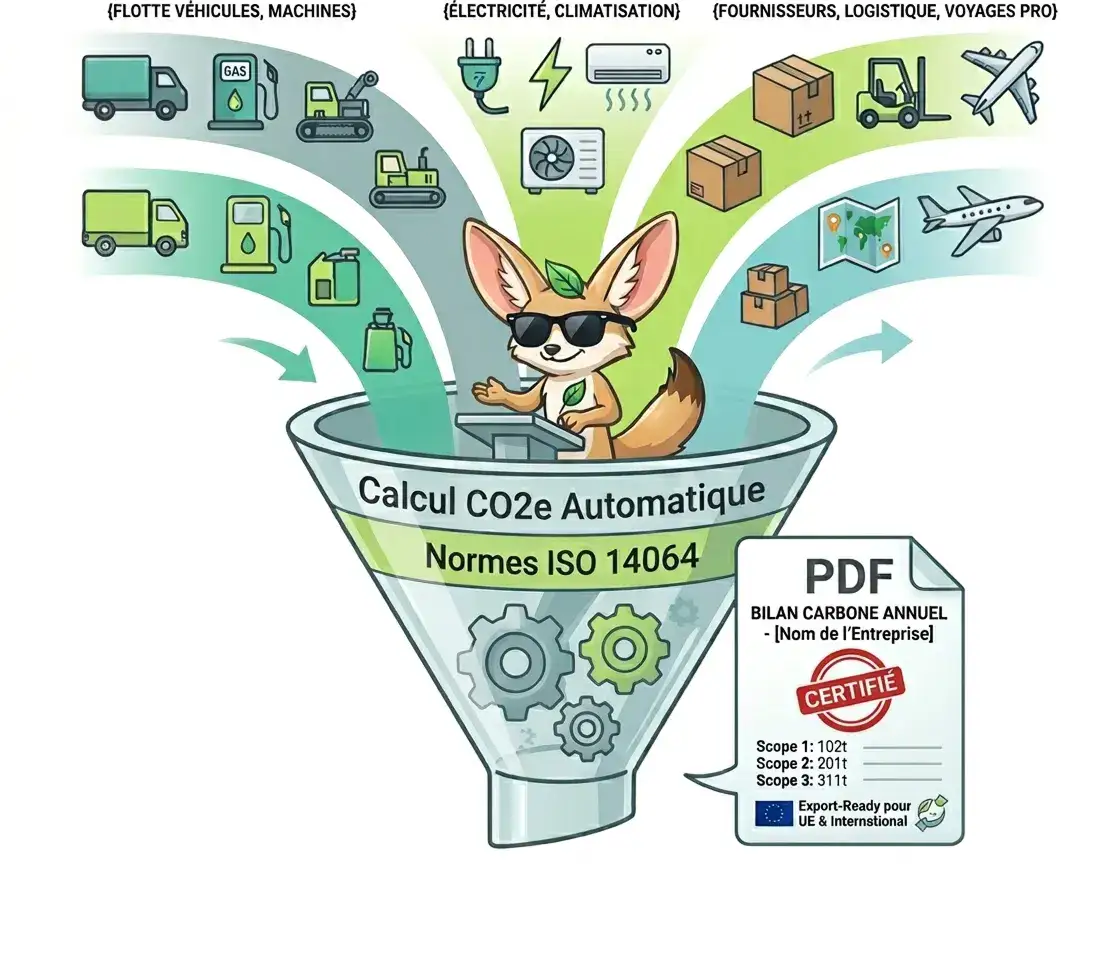
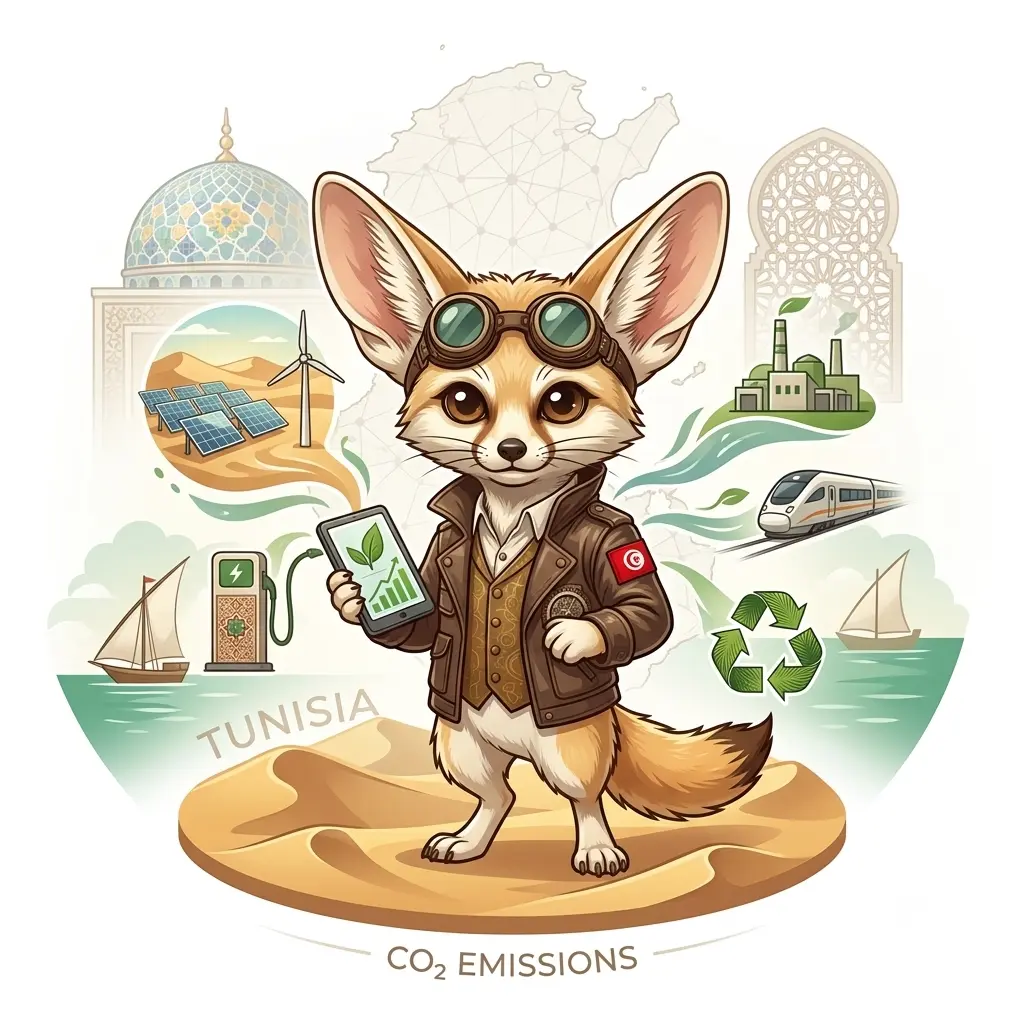
chore: carbon section Ui refactor

diff --git a/src/components/sections/CarbonReport.tsx b/src/components/sections/CarbonReport.tsx
@@ -1,5 +1,5 @@
 import Image from "next/image"
-import { FileCheck, Leaf, Globe, ArrowRight } from "lucide-react"
+import { FileCheck, Leaf, Globe, ArrowRight, Car, AirVent, Plane, BadgeCheck } from "lucide-react"
 import { getTranslations } from "next-intl/server"
 import { Link } from "@/i18n/navigation"
 import SectionTitle from "../layout/SectionTitle"
@@ -9,14 +9,16 @@ export async function CarbonReport() {
   const t = await getTranslations("carbon")
 
   const SCOPES = [
-    { label: t("scope1Label"), description: t("scope1Desc"), color: "#3ecf8e" },
-    { label: t("scope2Label"), description: t("scope2Desc"), color: "#2db97a" },
-    { label: t("scope3Label"), description: t("scope3Desc"), color: "#1A2B3C" },
+    { label: t("scope1Label"), description: t("scope1Desc"), color: "#CDECE2", icon: { label: "Car", color: "#A1D8C5" } },
+    { label: t("scope2Label"), description: t("scope2Desc"), color: "#9EDBD2", icon: { label: "AirVent", color: "#48A59B" } },
+    { label: t("scope3Label"), description: t("scope3Desc"), color: "#B5DBF7", icon: { label: "Plane", color: "#619EC3" } },
   ]
 
+  const ICON_MAP = { Car, AirVent, Plane } as const
+
   const FEATURES = [
-    { icon: Leaf, text: t("feature1") },
-    { icon: FileCheck, text: t("feature2") },
+    { icon: BadgeCheck, text: t("feature1") },
+    { icon: BadgeCheck, text: t("feature2") },
     { icon: Globe, text: t("feature3") },
   ]
 
@@ -30,15 +32,18 @@ export async function CarbonReport() {
 
           {/* Scope badges */}
           <div className="space-y-3">
-            {SCOPES.map(({ label, description, color }) => (
-              <div key={label} className="flex items-center gap-4 px-4 py-3 border border-zinc-100 bg-zinc-50">
-                <span
-                  className="shrink-0 text-xs font-bold tracking-wider uppercase px-2 py-0.5"
-                  style={{ background: color, color: "#fff" }}
-                >
-                  {label}
-                </span>
-                <span className="text-sm text-zinc-700">{description}</span>
+            {SCOPES.map(({ label, description, color, icon }) => (
+              <div key={label} className="flex items-center justify-between px-4 py-3 rounded-lg" style={{ background: color, color: "#fff" }}>
+                <div className="flex items-center gap-4">
+                  <span className="font-bold text-black">{label}:</span>
+                  <span className="text-sm text-zinc-700">{description}</span>
+                </div>
+                <div>
+                  {(() => {
+                    const Icon = ICON_MAP[icon.label as keyof typeof ICON_MAP]
+                    return Icon ? <Icon className="w-5 h-5" style={{ color: icon.color }} /> : null
+                  })()}
+                </div>
               </div>
             ))}
           </div>
@@ -46,16 +51,16 @@ export async function CarbonReport() {
           {/* Feature list */}
           <ul className="space-y-3">
             {FEATURES.map(({ icon: Icon, text }) => (
-              <li key={text} className="flex items-start gap-3 text-sm text-zinc-700">
-                <Icon className="h-4 w-4 shrink-0 mt-0.5" style={{ color: "#3ecf8e" }} />
-                {text}
+              <li key={text} className="flex items-center gap-2">
+                <Icon className="w-6 h-6" style={{ color: "#AED3CD" }} />
+                <span className="text-lg">{text}</span>
               </li>
             ))}
           </ul>
 
           <Link
-            href="/blog/bilan-carbone-entreprise-en-tunisie-obligations-methode-iso-14064-et-calcul"
-            className="flex items-center px-4 py-2 border rounded-full cursor-pointer w-fit bg-brand text-zinc-900 hover:bg-brand-600 border-zinc-900 h-9"
+            href="https://calculator.vaga.tn"
+            className="flex items-center px-4 py-2 border cursor-pointer rounded-xl w-fit bg-brand text-zinc-900 hover:bg-brand-600 border-zinc-900 h-9"
           >
             {t("learnMore")}
             <ArrowRight className="w-4 h-4 ml-2" />
@@ -66,8 +71,8 @@ export async function CarbonReport() {
         <Image
           src="/fennec_carbon.webp"
           alt="Calcul bilan carbone CO2e automatique ISO 14064"
-          width={500}
-          height={500}
+          width={1024}
+          height={1024}
           className="object-contain w-full h-auto"
           loading="lazy"
         />